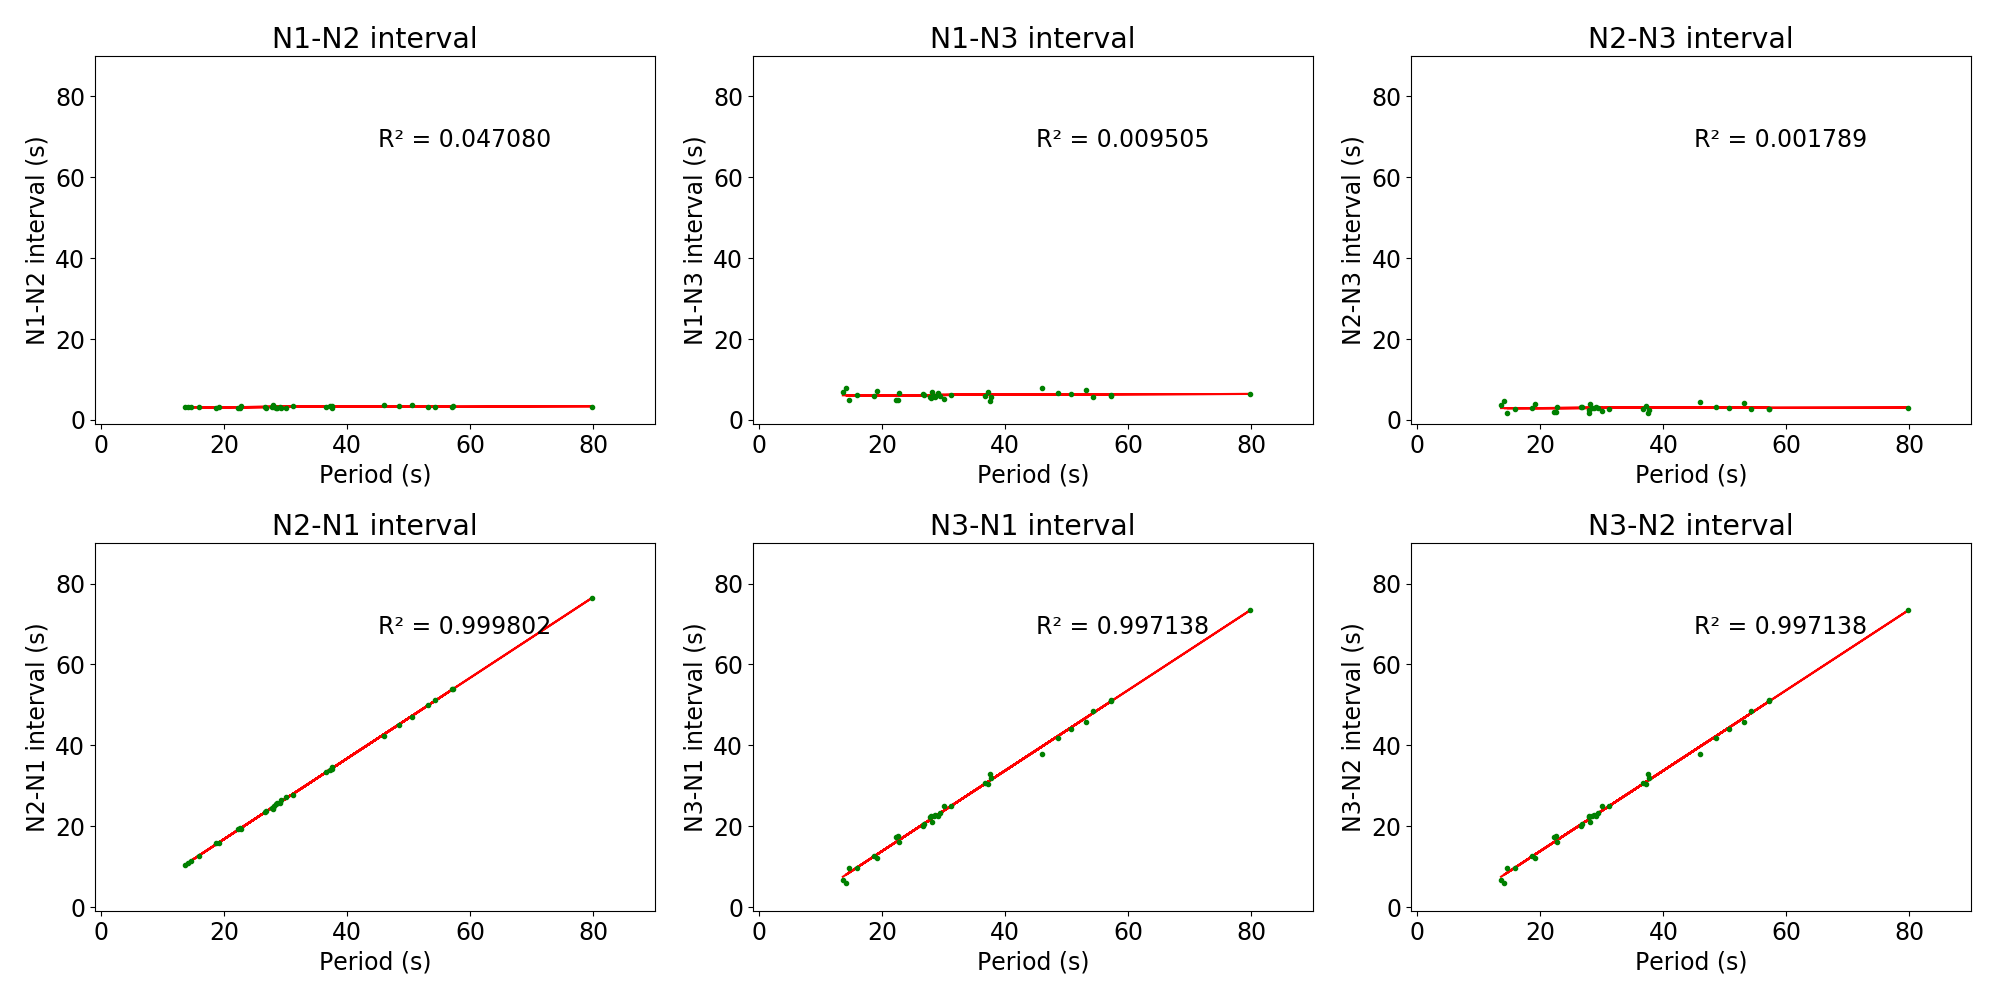
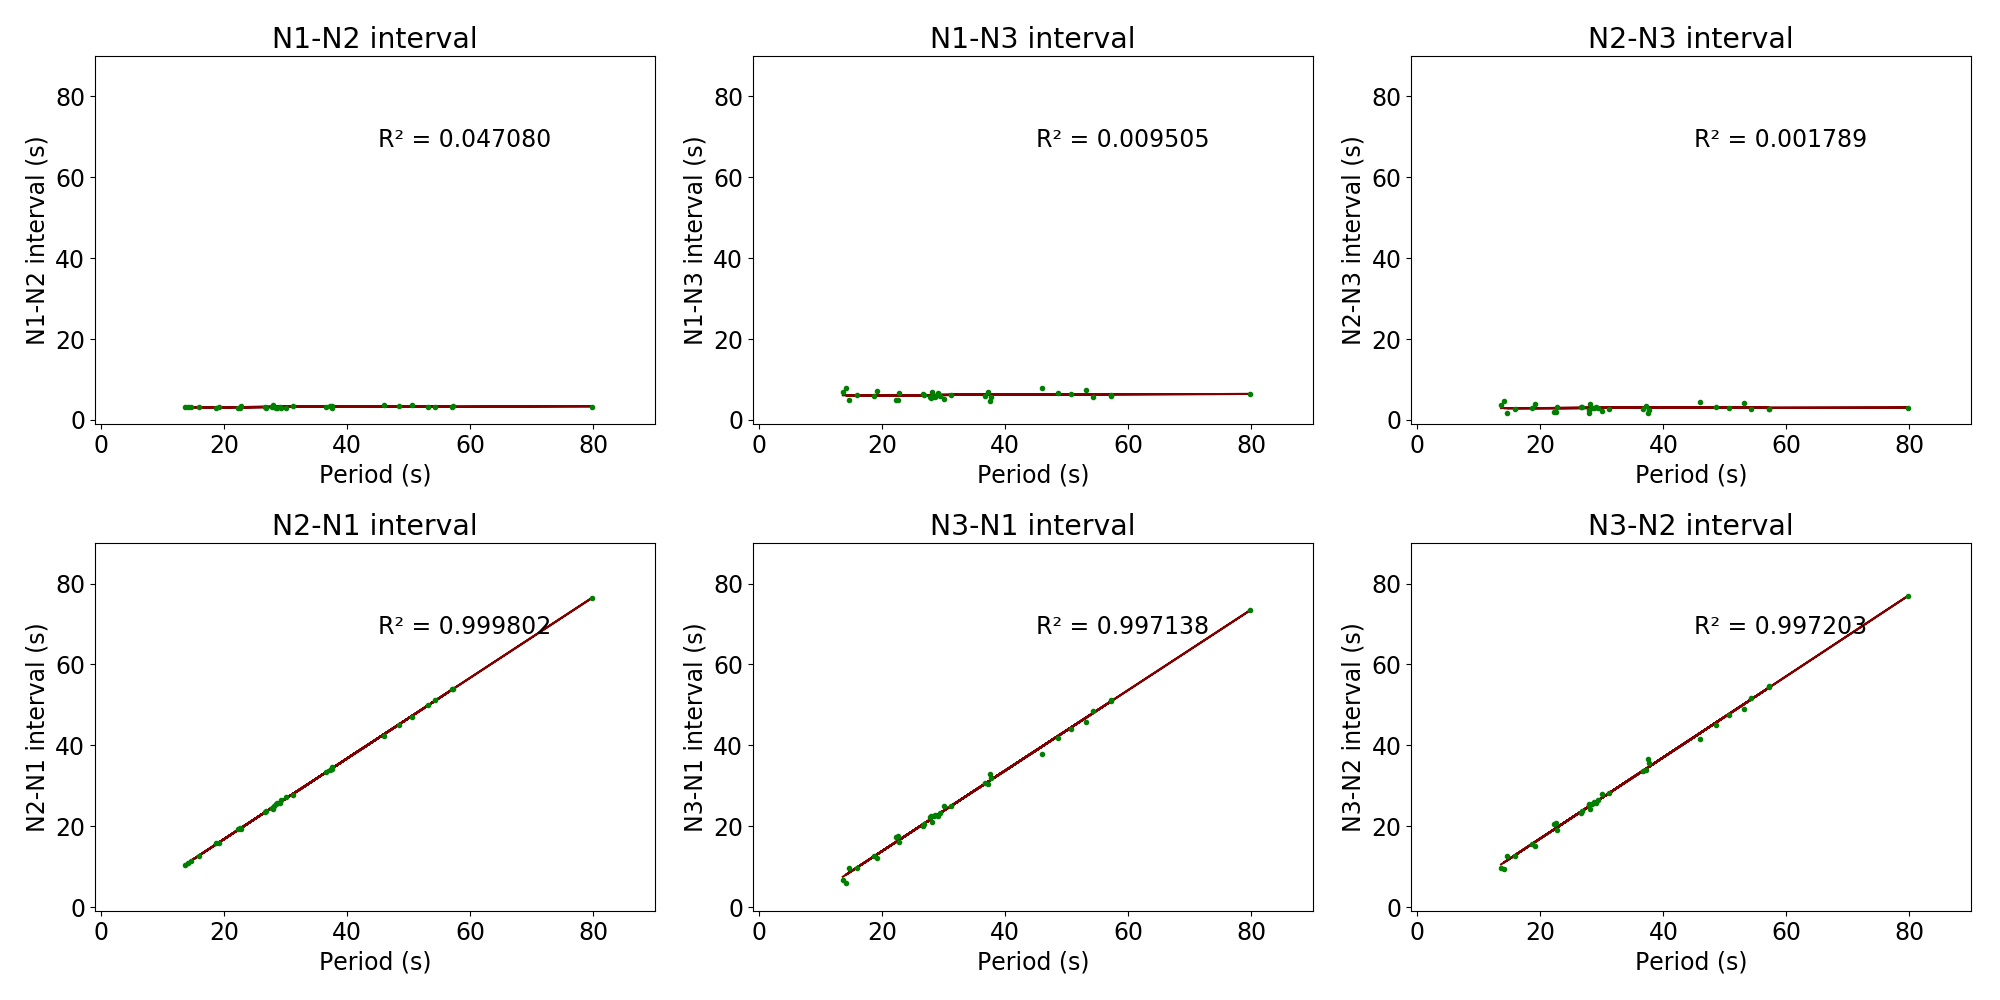
changes

diff --git a/burst_charact.py b/burst_charact.py
@@ -12,28 +12,28 @@ N3t = 'N3t'
 
 #####################
 ## Loads file from record
-# date = '08-Jul-2019'
-# file = 'burst_ph1.txt'
-# file_name = '08-Jul-2019'
+date = '08-Jul-2019'
+file = 'burst_ph1.txt'
+file_name = '08-Jul-2019'
 
-# N1m_data = read_bursts_events('../'+date+'/'+file)
+N1m_data = read_bursts_events('../'+date+'/'+file)
 
-# date = '08-Jul-2019'
-# file = 'burst_ph2.txt'
+date = '08-Jul-2019'
+file = 'burst_ph2.txt'
 
-# N2v_data = read_bursts_events('../'+date+'/'+file)
+N2v_data = read_bursts_events('../'+date+'/'+file)
 
-# date = '08-Jul-2019'
-# file = 'burst_ph3.txt'
+date = '08-Jul-2019'
+file = 'burst_ph3.txt'
 
-# N3t_data = read_bursts_events('../'+date+'/'+file)
+N3t_data = read_bursts_events('../'+date+'/'+file)
 
 
-# print(len(N1m_data),len(N2v_data),len(N3t_data))
-# #Adjust burst to periods
-# #Input: Ref, Snd, Thrd.
+print(len(N1m_data),len(N2v_data),len(N3t_data))
+#Adjust burst to periods
+#Input: Ref, Snd, Thrd.
 
-# N1m_data,N2v_data,N3t_data = fix_length(N1m_data,N2v_data,N3t_data)
+N1m_data,N2v_data,N3t_data = fix_length(N1m_data,N2v_data,N3t_data)
 
 # print(len(N1m_data),len(N2v_data),len(N3t_data))
 
@@ -58,31 +58,31 @@ N3t = 'N3t'
 ###  test3: n3t [1:] on load
 ###			n1m, n2v, n3t [:-1] on plot
 
-path = ""
+# path = ""
 
 
-# path = "../model/slow-fast/" + file_name + "/"
-# path = "../lymnaea-model/test_intervals_long/"
-# path = file_name +"/"
-path = "../model/N1m/test1/"
+# # path = "../model/slow-fast/" + file_name + "/"
+# # path = "../lymnaea-model/test_intervals_long/"
+# # path = file_name +"/"
+# path = "../model/N1m/test1/"
 
 
-if len(sys.argv) >2:
-	path = sys.argv[1]
-	file_name = sys.argv[2]
-else:
-	file_name = "test1"
+# if len(sys.argv) >2:
+# 	path = sys.argv[1]
+# 	file_name = sys.argv[2]
+# else:
+# 	file_name = "test1"
 
 
-N1m_data = read_model_burst_path(path+N1m,scale=100)
-N2v_data = read_model_burst_path(path+N2v,scale=100)
-N3t_data = read_model_burst_path(path+N3t,scale=100)
+# N1m_data = read_model_burst_path(path+N1m,scale=100)
+# N2v_data = read_model_burst_path(path+N2v,scale=100)
+# N3t_data = read_model_burst_path(path+N3t,scale=100)
 
-print(len(N1m_data),len(N2v_data),len(N3t_data))
-# #Adjust burst to periods
-# #Input: Ref, Snd, Thrd.
+# print(len(N1m_data),len(N2v_data),len(N3t_data))
+# # #Adjust burst to periods
+# # #Input: Ref, Snd, Thrd.
 
-N1m_data,N2v_data,N3t_data = fix_length(N1m_data,N2v_data,N3t_data)
+# N1m_data,N2v_data,N3t_data = fix_length(N1m_data,N2v_data,N3t_data)
 
 
 
@@ -195,11 +195,11 @@ plt.subplot(2,3,3)
 plot_corr(period,N2N3[INTERVAL][:-1],"Period (s)","N2-N3 interval (s)",ran,False,color='green')
 
 plt.subplot(2,3,6)
-plot_corr(period,N3N1[INTERVAL],"Period (s)","N3-N2 interval (s)",ran,False,color='green')
+plot_corr(period,N3N2[INTERVAL],"Period (s)","N3-N2 interval (s)",ran,False,color='green')
 
 
 plt.tight_layout()
-# plt.savefig("./results_invariant_tests/images/"+file_name+"_intervals.png")
+plt.savefig("./results_invariant_tests/images/"+file_name+"_intervals.png")
 # plt.show()
 
 
@@ -228,7 +228,7 @@ plot_corr(period,N3N2[DELAY],"Period (s)","N3-N2 delay (s)",ran,False,color='bro
 
 
 plt.tight_layout()
-# plt.savefig("./results_invariant_tests/images/"+file_name+"_delays.png")
+plt.savefig("./results_invariant_tests/images/"+file_name+"_delays.png")
 # plt.show()
 
 

diff --git a/3-impulse/impulse.py b/3-impulse/impulse.py
@@ -90,33 +90,35 @@ def check_spike(a,b,spikes):
 def plot_isi_cond(isi1,isi2,indexes,title,color='blue',label='',acc_decc=True):
     lim = max(max(isi1),max(isi2))+0.5
     #accelerating
-    
-    isi1 = isi1[indexes]
-    isi2 = isi2[indexes]
+    try: 
+        isi1 = isi1[indexes]
+        isi2 = isi2[indexes]
 
-    if(acc_decc):
-        x_1 = isi1[np.where(isi1>=isi2)]
-        y_1 = isi2[np.where(isi1>=isi2)]
-        
-        x_2 = isi1[np.where(isi1<isi2)]
-        y_2 = isi2[np.where(isi1<isi2)]
-        
-        scatter =  plt.scatter(x_1,y_1,c=acc_color,label="Accelerating")
-        scatter =  plt.scatter(x_2,y_2,c=dec_color,label="Deccelerating")
-        plt.legend()
-    else:
-#         col = np.full(isi1.shape,color)
-        scatter =  plt.scatter(isi1,isi2,c=color,label=label)
-        
+        if(acc_decc):
+            x_1 = isi1[np.where(isi1>=isi2)]
+            y_1 = isi2[np.where(isi1>=isi2)]
+            
+            x_2 = isi1[np.where(isi1<isi2)]
+            y_2 = isi2[np.where(isi1<isi2)]
+            
+            scatter =  plt.scatter(x_1,y_1,c=acc_color,label="Accelerating")
+            scatter =  plt.scatter(x_2,y_2,c=dec_color,label="Deccelerating")
+            plt.legend()
+        else:
+    #         col = np.full(isi1.shape,color)
+            scatter =  plt.scatter(isi1,isi2,c=color,label=label)
+            
 
-        
-    plt.xlabel('ISI1 (s)')
-    plt.ylabel('ISI2 (s)')
-    plt.xlim(0,lim)
-    plt.ylim(0,lim)
-    plt.title(title)
-    if(label!=''):
-        plt.legend()
+            
+        plt.xlabel('ISI1 (s)')
+        plt.ylabel('ISI2 (s)')
+        plt.xlim(0,lim)
+        plt.ylim(0,lim)
+        plt.title(title)
+        if(label!=''):
+            plt.legend()
+    except:
+        pass
 
 
 # ## Spikes según pulsos
@@ -319,21 +321,29 @@ plot_stats([indexes_1,indexes_2,indexes_3],"Spikes after each pulse",['1st','2nd
 plt.savefig(path+"stat_spikes.png")
 plt.close(fig)
 
-ad1 = get_acc_dec(indexes_1,isi1,isi2)
-ad2 = get_acc_dec(indexes_2,isi1,isi2)
-ad3 = get_acc_dec(indexes_3,isi1,isi2)
+try:
+    ad1 = get_acc_dec(indexes_1,isi1,isi2)
+    fig=plt.figure()
+    plot_stats(ad1,"Spikes after 1nd",["Acc.","Dec."],[acc_color,dec_color],print_=True)
+    plt.savefig(path+"stat_1.png")
+    plt.close(fig)
+except:
+    pass
 
-fig=plt.figure()
-plot_stats(ad1,"Spikes after 1nd",["Acc.","Dec."],[acc_color,dec_color],print_=True)
-plt.savefig(path+"stat_1.png")
-plt.close(fig)
+try:
+    ad2 = get_acc_dec(indexes_2,isi1,isi2)
+    fig=plt.figure()
+    plot_stats(ad2,"Spikes after 2nd",["Acc.","Dec."],[acc_color,dec_color],print_=True)
+    plt.savefig(path+"stat_2.png")
+    plt.close(fig)
+except:
+    pass
 
-fig=plt.figure()
-plot_stats(ad2,"Spikes after 2nd",["Acc.","Dec."],[acc_color,dec_color],print_=True)
-plt.savefig(path+"stat_2.png")
-plt.close(fig)
-
-fig=plt.figure()
-plot_stats(ad3,"Spikes after 3nd",["Acc.","Dec."],[acc_color,dec_color],print_=True)
-plt.savefig(path+"stat_3.png")
-plt.close(fig)
+try:
+    ad3 = get_acc_dec(indexes_3,isi1,isi2)
+    fig=plt.figure()
+    plot_stats(ad3,"Spikes after 3nd",["Acc.","Dec."],[acc_color,dec_color],print_=True)
+    plt.savefig(path+"stat_3.png")
+    plt.close(fig)
+except:
+    pass

diff --git a/move_elems.py b/move_elems.py
@@ -14,5 +14,6 @@ os.system("mkdir -p "+dest)
 
 for f in os.listdir(path1):
 	if f.endswith(".png"):
-		cmd = "cp "+path1+f+" "+dest+f[:-3]+"asc"
+		cmd = "cp "+path2+f[:-3]+"asc "+dest+f[:-3]+"asc"
+		print(cmd)
 		os.system(cmd)
